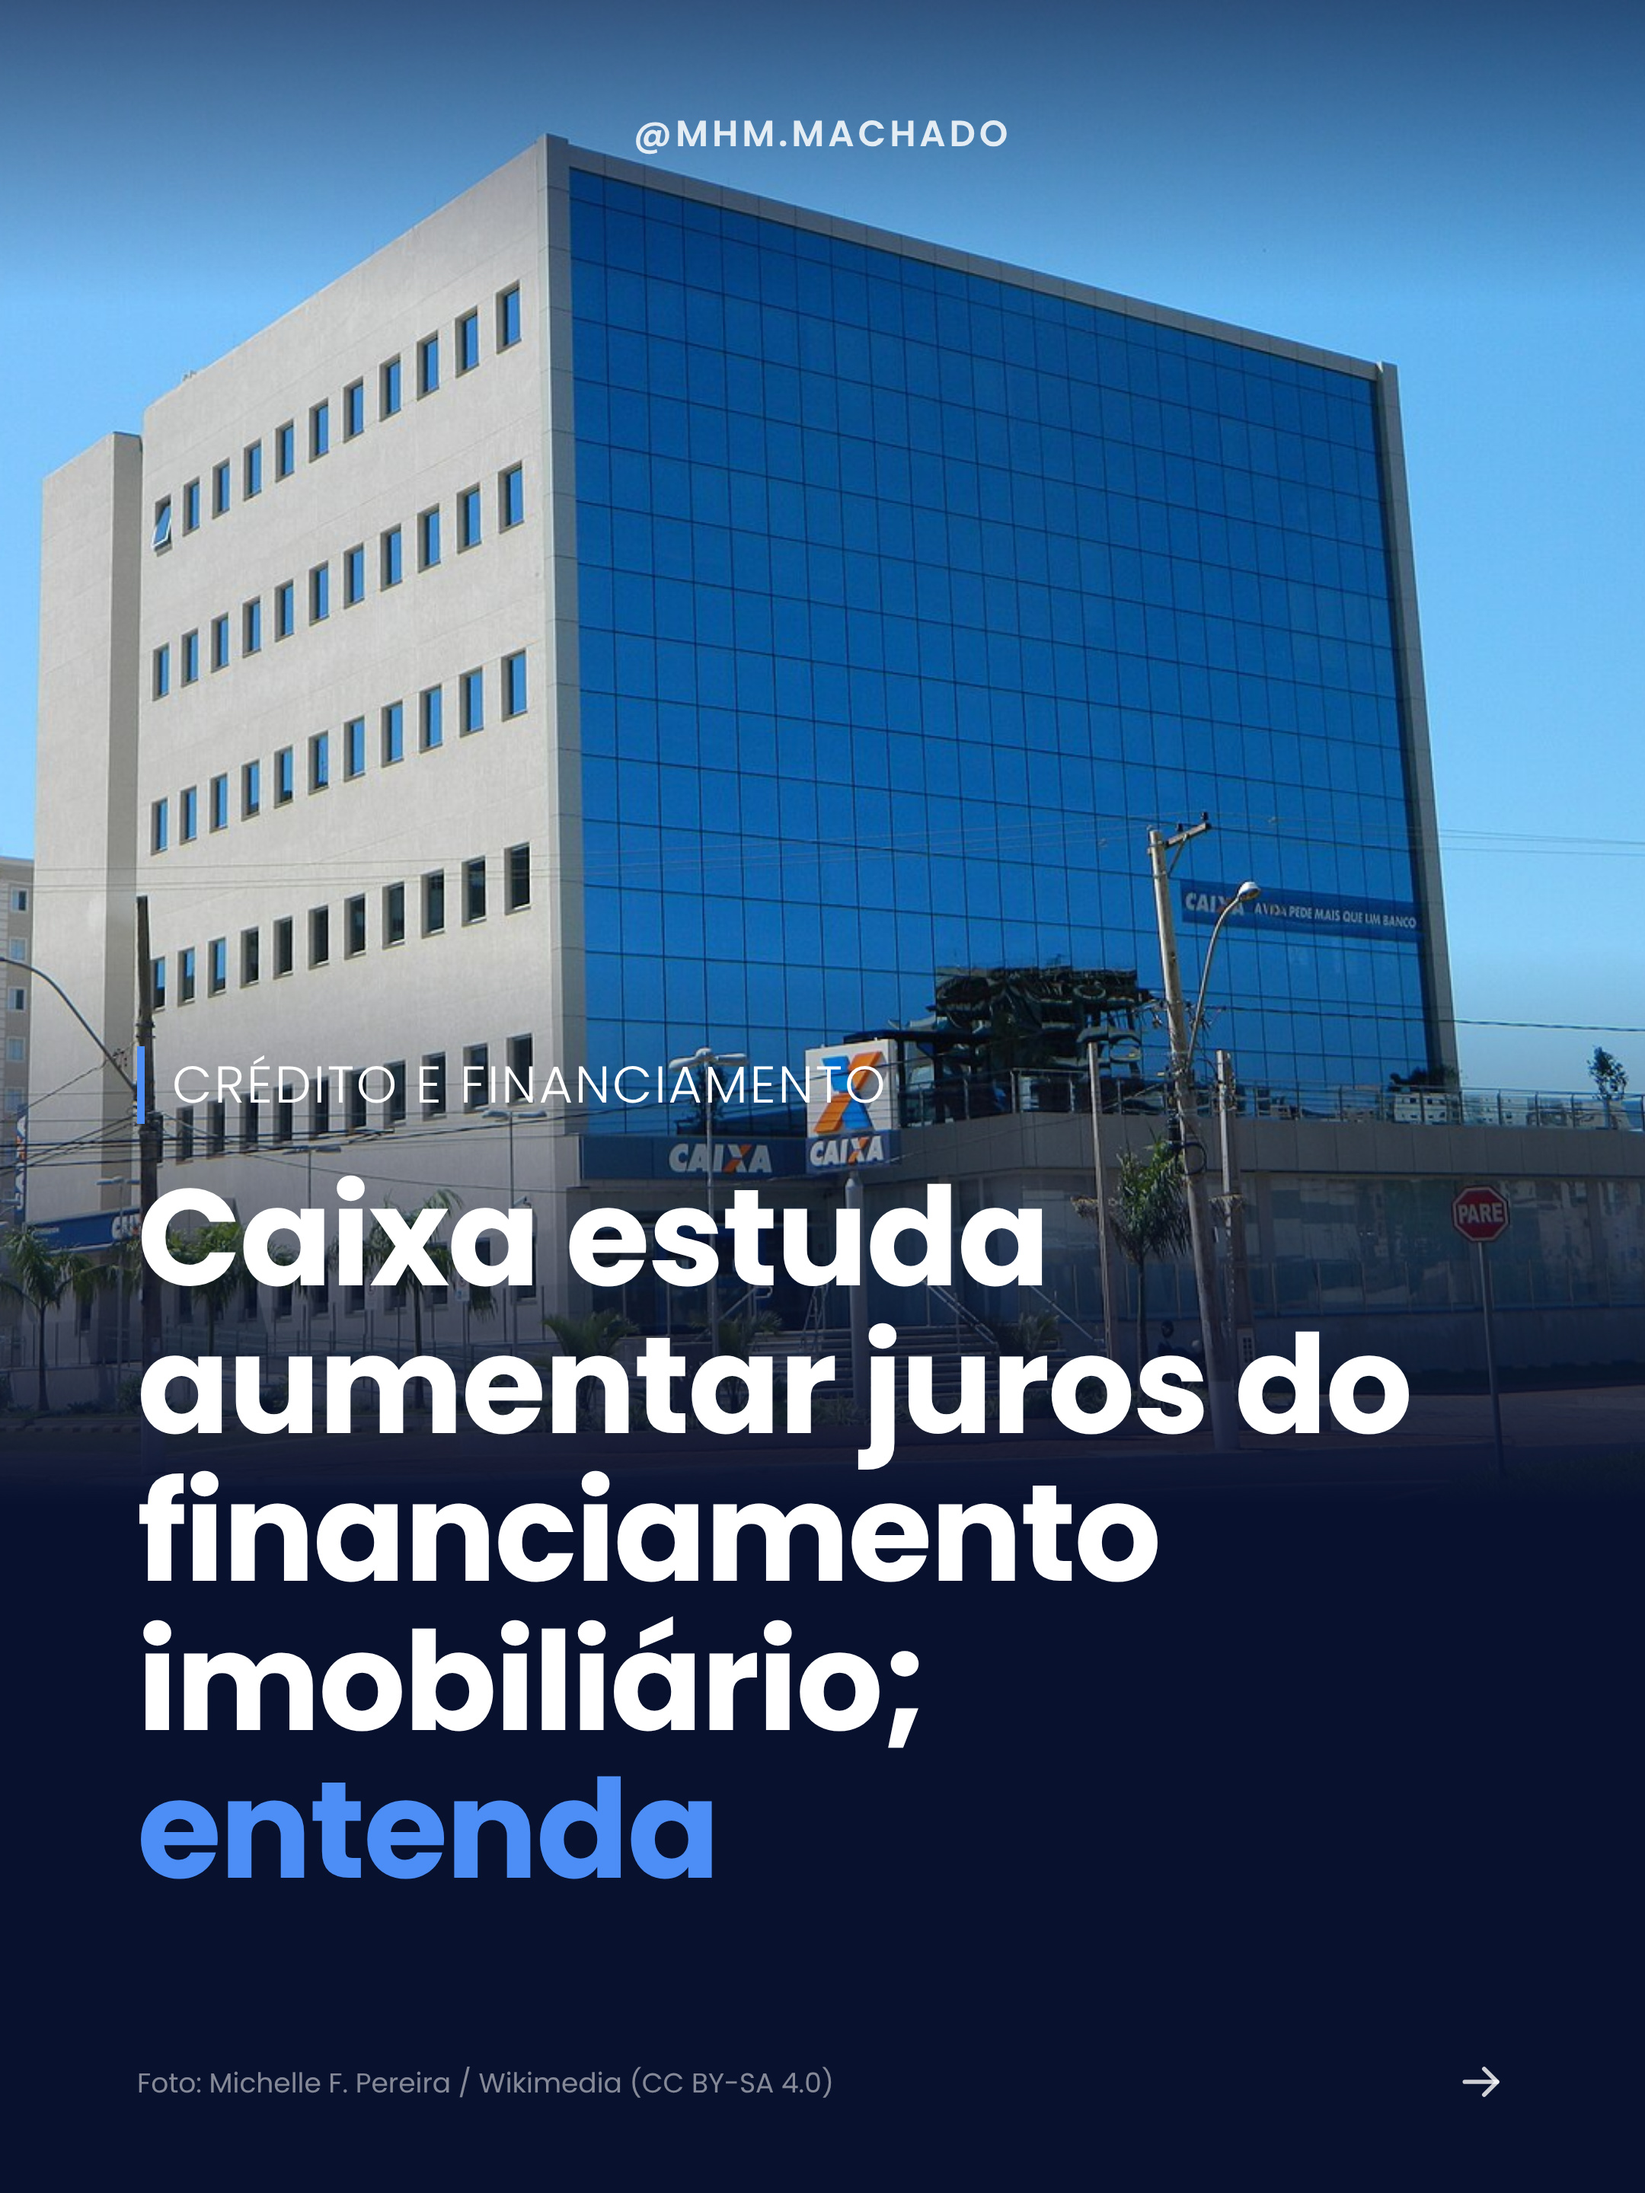
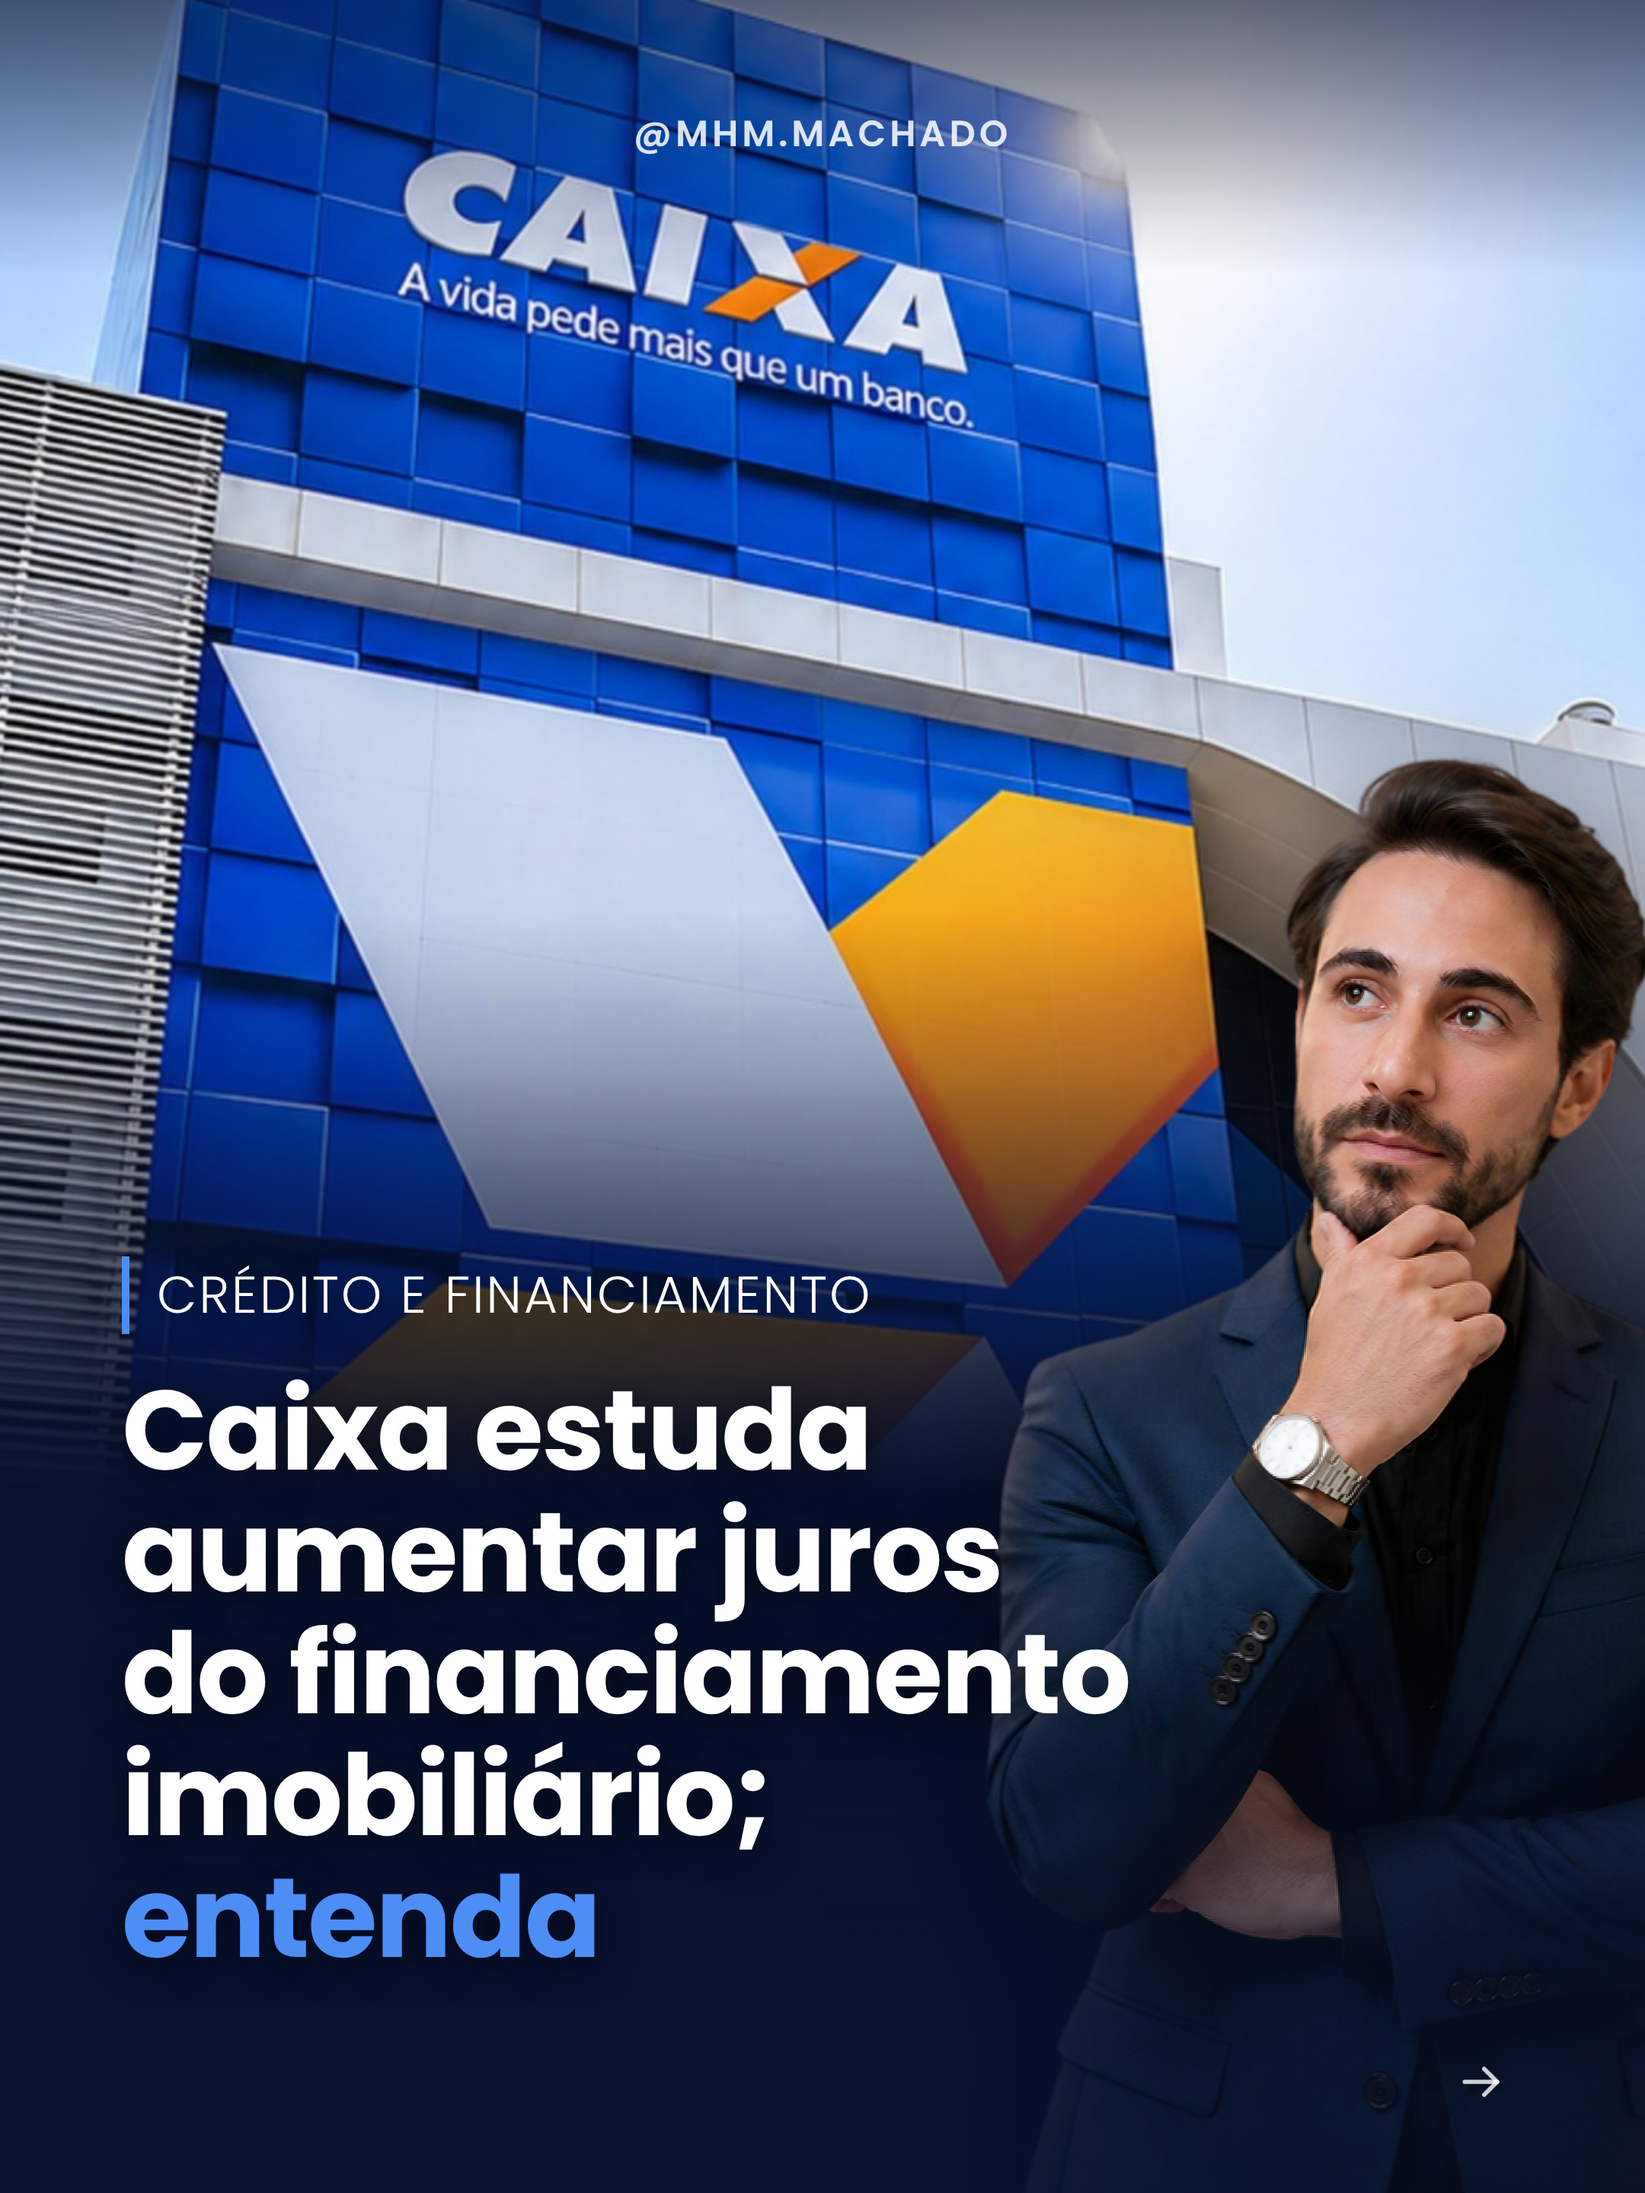
carrossel caixa-juros: capa com a foto da capa original (sem marca GMI) + o dono
Claude-Session: https://claude.ai/code/session_018X91MFfPMRMPYSAfb3KdfT

diff --git a/docs/posicionamento/carrosseis/2026-11-22-caixa-juros/laminas.html b/docs/posicionamento/carrosseis/2026-11-22-caixa-juros/laminas.html
@@ -25,17 +25,19 @@
 .chip{display:flex;align-items:center;justify-content:center;height:150px;border-radius:26px;font-weight:800;font-size:58px;letter-spacing:-.01em;box-shadow:0 20px 50px rgba(0,0,0,.35)}
 </style></head><body>
 
-<!-- 1 CAPA -->
+<!-- 1 CAPA (dono, 2026-11-22: foto da capa original, sem a marca GMI, + o dono) -->
 <section class="lamina">
- <img class="bg" src="img/cx2.jpg" style="height:1000px;object-position:58% 78%">
- <div style="position:absolute;left:0;right:0;top:620px;height:400px;background:linear-gradient(180deg,rgba(8,17,46,0),#08112E 92%)"></div>
- <div style="position:absolute;left:0;right:0;top:0;height:200px;background:linear-gradient(180deg,rgba(8,17,46,.6),rgba(8,17,46,0))"></div>
+ <img src="img/capa-orig.jpg" style="position:absolute;left:0;top:0;width:1080px;height:997px;object-fit:cover">
+ <div style="position:absolute;left:0;right:0;top:600px;height:420px;background:linear-gradient(180deg,rgba(8,17,46,0),#08112E 90%)"></div>
+ <div style="position:absolute;left:0;right:0;top:0;height:180px;background:linear-gradient(180deg,rgba(8,17,46,.55),rgba(8,17,46,0))"></div>
  <div class="h">@MHM.MACHADO</div>
- <div class="b" style="bottom:190px">
+ <img src="img/pensativo.png" style="position:absolute;right:-250px;bottom:0;height:1000px;z-index:2;filter:drop-shadow(0 30px 50px rgba(0,0,0,.5))">
+ <div style="position:absolute;left:0;right:0;bottom:0;height:420px;z-index:2;background:linear-gradient(180deg,rgba(8,17,46,0),rgba(8,17,46,.6) 60%)"></div>
+ <div style="position:absolute;left:80px;width:640px;bottom:140px;z-index:4;text-shadow:0 4px 24px rgba(0,0,0,.5)">
   <div class="tag">CRÉDITO E FINANCIAMENTO</div>
-  <div style="font-weight:700;font-size:90px;line-height:1.08;margin-top:26px;letter-spacing:-.015em">Caixa estuda aumentar juros do financiamento imobiliário; <span style="color:var(--azul)">entenda</span></div>
+  <div style="font-weight:700;font-size:74px;line-height:1.08;margin-top:24px;letter-spacing:-.015em">Caixa estuda aumentar juros do&nbsp;financiamento imobiliário; <span style="color:var(--azul)">entenda</span></div>
  </div>
- <div class="credito"><span>Foto: Michelle F. Pereira / Wikimedia (CC BY-SA 4.0)</span><svg viewBox="0 0 24 24"><path d="M4 12h15"/><path d="M13 6l6 6-6 6"/></svg></div>
+ <div class="credito"><span></span><svg viewBox="0 0 24 24"><path d="M4 12h15"/><path d="M13 6l6 6-6 6"/></svg></div>
 </section>
 
 <!-- 2 REAJUSTE EM AVALIAÇÃO -->
